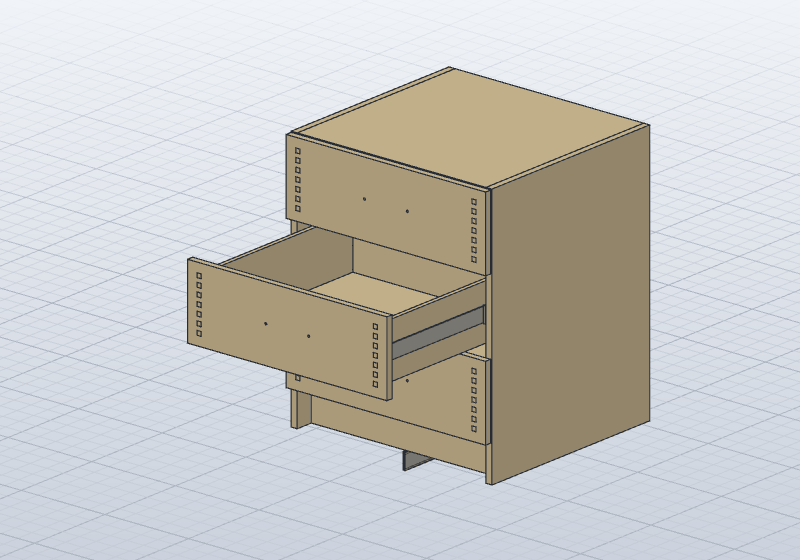
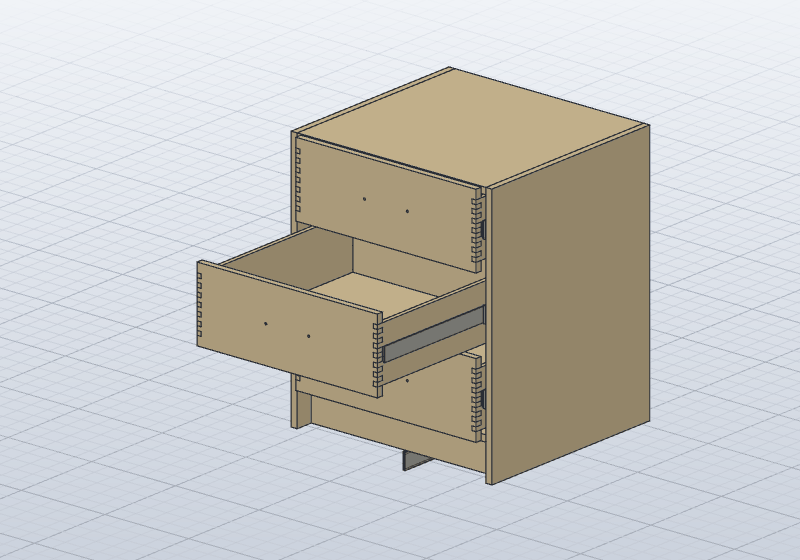
Integrated drawer front: as wide as the box, flush with its sides (#223) (#224)
With side-mounted slides the integrated front reached past the box
sides to cover the slide gap, so finger joints ended in closed mortises
in its back. It now takes the box's x and width; height and depth place
stay. The slide gap shows.

diff --git a/src/cabinet/tests.rs b/src/cabinet/tests.rs
@@ -1427,8 +1427,9 @@ fn grip_edges_and_finger_grooves() {
 
 #[test]
 fn an_integrated_drawer_front_is_the_box_front() {
-    // #163: no front of its own; the box's front takes the separate front's place, size and
-    // handle holes, overlay or inset
+    // #163: no front of its own; the box's front takes the separate front's height, depth and
+    // handle holes, overlay or inset; #223: but only the box's width, its edges flush with the
+    // box sides, so their fingers stay open
     for fronts in ["overlay", "inset"] {
         let base = json!({"drawers": 2, "handles": "pull", "fronts": fronts});
         let (separate, _) = build(&base).unwrap();
@@ -1442,9 +1443,15 @@ fn an_integrated_drawer_front_is_the_box_front() {
             named(&separate, "Cabinet Drawer 1 Front"),
             named(&commands, "Cabinet Drawer 1 Box front"),
         );
-        for key in ["corner", "length", "width", "height"] {
+        for key in ["width", "height"] {
             assert_eq!(own[key], front[key], "{fronts} {key}");
         }
+        assert_eq!(own["corner"][1], front["corner"][1], "{fronts}");
+        assert_eq!(own["corner"][2], front["corner"][2], "{fronts}");
+        let left = named(&commands, "Cabinet Drawer 1 Left");
+        assert_eq!(own["corner"][0], left["corner"][0], "{fronts}");
+        let box_w = "((Cabinet_width - 2*Cabinet_thickness) - 2*HW_slide_t)";
+        assert_eq!(own["length"], box_w, "{fronts}");
         let handle = named(&commands, "Cabinet Drawer 1 Box front handle 2");
         assert_eq!(handle["targets"], json!(["Cabinet Drawer 1 Box front"]));
         // the sides stay at box size, behind the front
@@ -1470,6 +1477,18 @@ fn an_integrated_drawer_front_is_the_box_front() {
     assert_eq!(cut["targets"], json!(["Cabinet Drawer 1 Box front"]));
     assert_eq!(cut["width"], "Cabinet_thickness");
     assert!(build(&json!({"drawers": 1, "drawer_front": "applied"})).is_err());
+    // a pull's holes must fit the narrower integrated front (#223); a separate one is wider
+    let pull = |w: f64, front: &str| {
+        build(&json!({"width": w, "drawers": 2, "handles": "pull", "drawer_front": front})).is_ok()
+    };
+    assert!(!pull(180.0, "integrated") && pull(240.0, "integrated") && pull(180.0, "separate"));
+    // the box as the slide type makes it: 30 mm strips leave a 212 mm cabinet's box 114 wide
+    let strips = json!({"width": 212, "drawers": 2, "handles": "pull", "drawer_front": "integrated",
+                        "slide_type": "strips", "strip_thickness": 30});
+    assert!(build(&strips).is_err());
+    let mut runners = strips.clone();
+    runners["slide_type"] = json!("wood");
+    assert!(build(&runners).is_ok());
 }
 
 #[test]

diff --git a/tests/test_fronts.py b/tests/test_fronts.py
@@ -492,8 +492,9 @@ def test_grip_edges(approval):
 
 
 def test_integrated_drawer_fronts(approval):
-    # Drawer front Integrated (#163): no front of its own, the box's front board where the
-    # separate front was (drilled for the knob), one board fewer a drawer in the cut list.
+    # Drawer front Integrated (#163): no front of its own, the box's front board as high and
+    # deep as the separate front (drilled for the knob), one board fewer a drawer in the cut
+    # list; and exactly as wide as the box, its edges flush with the box sides (#223).
     steps = [plugin(approval, "cabinet", {"drawers": 2, "handles": "knob"}), MEASURE, plugin(approval, "cutlist")]
     separate = designed(approval, {"drawer_front": "separate"}, steps)
     results = designed(approval, {"drawer_front": "integrated"}, steps)
@@ -501,7 +502,10 @@ def test_integrated_drawer_fronts(approval):
     assert "Cabinet Drawer 1 Front" not in box, sorted(box)
     for n in (1, 2):
         own, front = box[f"Cabinet Drawer {n} Box front"], boxes(separate[1])[f"Cabinet Drawer {n} Front"]
-        assert [round(v, 3) for v in own] == [round(v, 3) for v in front], (own, front)
+        same = [1, 2, 4, 5]  # depth and height
+        assert [round(own[i], 3) for i in same] == [round(front[i], 3) for i in same], (own, front)
+        left, right = box[f"Cabinet Drawer {n} Left"], box[f"Cabinet Drawer {n} Right"]
+        assert (own[0], own[3]) == (left[0], right[3]), (own, left, right)
     # the bottom starts at the front's back face (y1 of the front, y0 of the bottom)
     assert box["Cabinet Drawer 1 Bottom"][1] == box["Cabinet Drawer 1 Box front"][4], box
     holes = cylinders(results[1], "Cabinet Drawer 1 Box front")

diff --git a/src/cabinet/input.rs b/src/cabinet/input.rs
@@ -467,6 +467,18 @@ pub fn read<'a>(kit: &Kit, p: &'a Value) -> Result<Input<'a>, String> {
         false => crate::hardware::travel(kind_of, slide.0),
     };
     let slide_type = (named, travel);
+    // An integrated front is only as wide as the box (#223), so a pull's two holes must fit it:
+    // the box as `drawers` makes it for each slide type.
+    let box_w = match (strips, grooved, under) {
+        (true, _, _) => inner_w - 2.0 * (strip[0] + play),
+        (_, true, _) => inner_w - 2.0 * runner[1],
+        (_, _, true) => inner_w - 42.0 + 2.0 * box_t[0],
+        _ => inner_w - 2.0 * SLIDE,
+    };
+    check(
+        !(integrated && drawers > 0.0 && handles == "pull") || box_w >= 150.0,
+        "integrated drawer fronts are too narrow for pulls",
+    )?;
     Ok(Input {
         kind,
         w,

diff --git a/src/cabinet/drawers.rs b/src/cabinet/drawers.rs
@@ -194,6 +194,12 @@ pub fn build(cabinet: &Cabinet) {
             true => format!("{drawer} Box front"),
             false => format!("{drawer} Front"),
         };
+        // An integrated front is exactly as wide as the box (#223): reaching past its sides,
+        // their fingers would end in closed mortises in its back. The slide gap shows.
+        let (x0, front_w) = match integrated {
+            true => (format!("{et} + {gap_x}"), box_w.clone()),
+            false => (x0, front_w),
+        };
         cabinet.front(
             &front,
             [&x0, efront, &z],

diff --git a/docs/usage.md b/docs/usage.md
@@ -393,9 +393,11 @@ as the cabinet is made:
   at their four corners, the box's front and back running through the sides, fingers as wide as
   the box boards are thick, the sides keeping the outer ones.
   **Drawer front** (Woodwork settings): Separate (the default) puts a front board on the drawer
-  box; Integrated leaves it out and makes the box's own front board the front, as big, thick
-  and placed as the separate front would be (overlay or inset), drilled for the handle, in the
-  cabinet's material. The rest of the box stays as it was, butted against the front, or with
+  box; Integrated leaves it out and makes the box's own front board the front, as high, thick
+  and placed in depth as the separate front would be (overlay or inset), drilled for the
+  handle, in the cabinet's material, but only as wide as the drawer box: its edges are flush
+  with the box sides, so finger joints stay open and can be cut at home, and the slide gap
+  beside it shows. The rest of the box stays as it was, butted against the front, or with
   Drawer box joints Finger, its sides' fingers running through the front and showing on its
   face. The box's bottom starts right behind the front. The cut list then has one board fewer a
   drawer. A sink base's false front stays.

diff --git a/CLAUDE.md b/CLAUDE.md
@@ -684,7 +684,9 @@ place, ground), so a builder only returns its commands and `Kit`'s summary.
   absent is `none`, so a cabinet made before rebuilds as it was.
   `drawer_front` (#163; separate / integrated; Woodwork settings, box only, design-wide like
   `drawer_joints`), read as `Input::integrated`: integrated makes no `Drawer <n> Front`; the
-  box's `Box front` takes its size, place, thickness (`et`) and handle holes, the sides, back
+  box's `Box front` takes its height, depth place, thickness (`et`) and handle holes, and the
+  box's x and width (#223: flush with the sides, so the fingers stay open; the slide gap
+  shows), the sides, back
   and bottom stay at box size behind it (butted); with finger joints the sides run forward
   through it (`side_y` = `efront`, `box_d + et` deep) and the corner cuts are `et` deep. The cut
   list bands it as a front when its drawer has no `Front` (`cutlist` before `role`). The hardware
